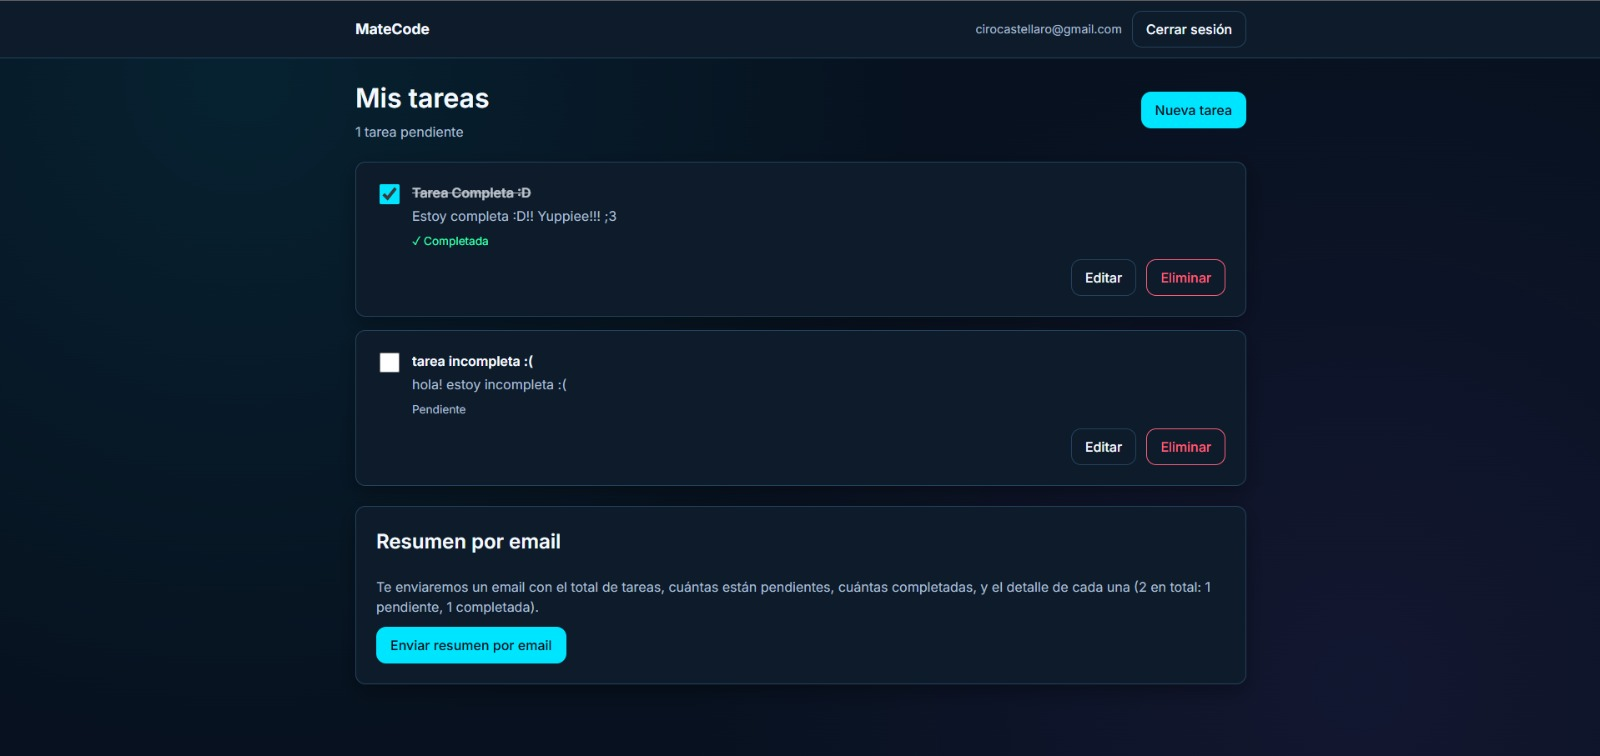
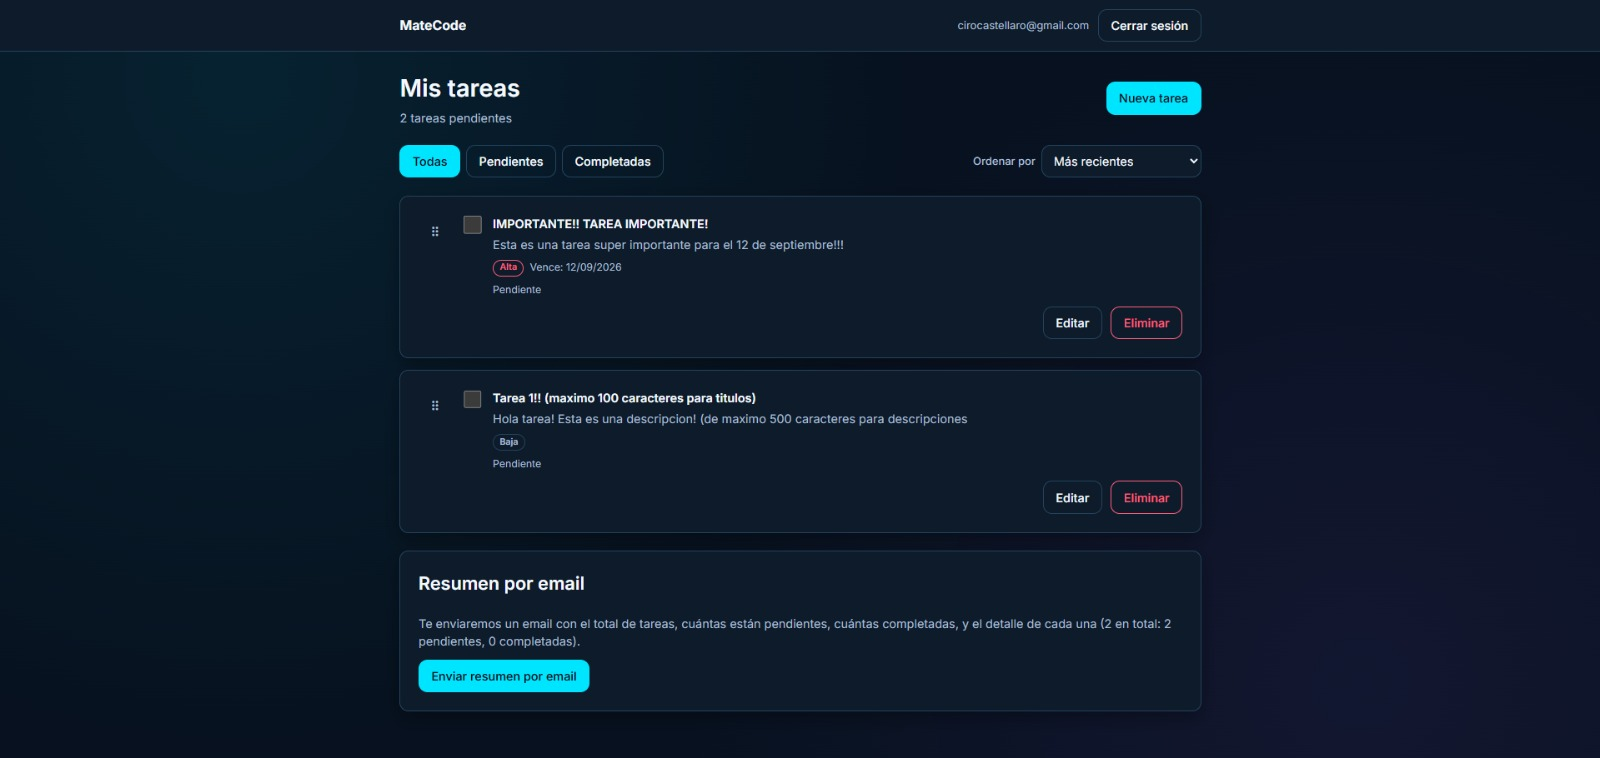
docs: update task screenshots and list additional features
Replace the desktop/mobile task-list screenshots with updated captures
showing filters, sorting, priority, due dates and drag-and-drop, and
add a section describing that functionality.

diff --git a/README.md b/README.md
@@ -128,6 +128,18 @@ direcciones verificadas manualmente en la consola de AWS (_Verified identities_)
 cualquier usuario registrado reciba su resumen sin verificación previa, hay que solicitar la
 salida del sandbox (_production access_) en la consola de AWS.
 
+## Funcionalidades adicionales
+
+Además del gestor de tareas básico (crear, editar, completar, eliminar) y el resumen por email, la
+aplicación incluye:
+
+- **Filtros de tareas**: ver todas, solo las pendientes o solo las completadas.
+- **Prioridad y fecha de vencimiento**: cada tarea puede tener una prioridad (baja, media o alta) y
+  una fecha de vencimiento opcional, y la lista se puede ordenar por cualquiera de los dos criterios.
+- **Reordenamiento manual (drag & drop)**: las tareas se pueden reordenar arrastrándolas, con
+  soporte de teclado y touch (`dnd-kit`), disponible cuando se están viendo todas las tareas sin un
+  orden calculado activo. El orden elegido se persiste en Firestore.
+
 ## Capturas de Pantalla
 
 **Login (desktop)**
@@ -136,7 +148,7 @@ salida del sandbox (_production access_) en la consola de AWS.
 
 **Mis tareas (desktop)**
 
-![Vista de tareas con el resumen por email en escritorio](screenshots/2.jpeg)
+![Vista de tareas en escritorio, con filtros, orden, prioridad, fecha de vencimiento y reordenamiento manual](screenshots/2.jpeg)
 
 **Login (mobile)**
 
@@ -144,7 +156,7 @@ salida del sandbox (_production access_) en la consola de AWS.
 
 **Mis tareas (mobile)**
 
-![Vista de tareas en mobile](screenshots/4.jpeg)
+![Vista de tareas en mobile, con filtros, orden, prioridad, fecha de vencimiento y reordenamiento manual](screenshots/4.jpeg)
 
 **Email de resumen recibido**
 
